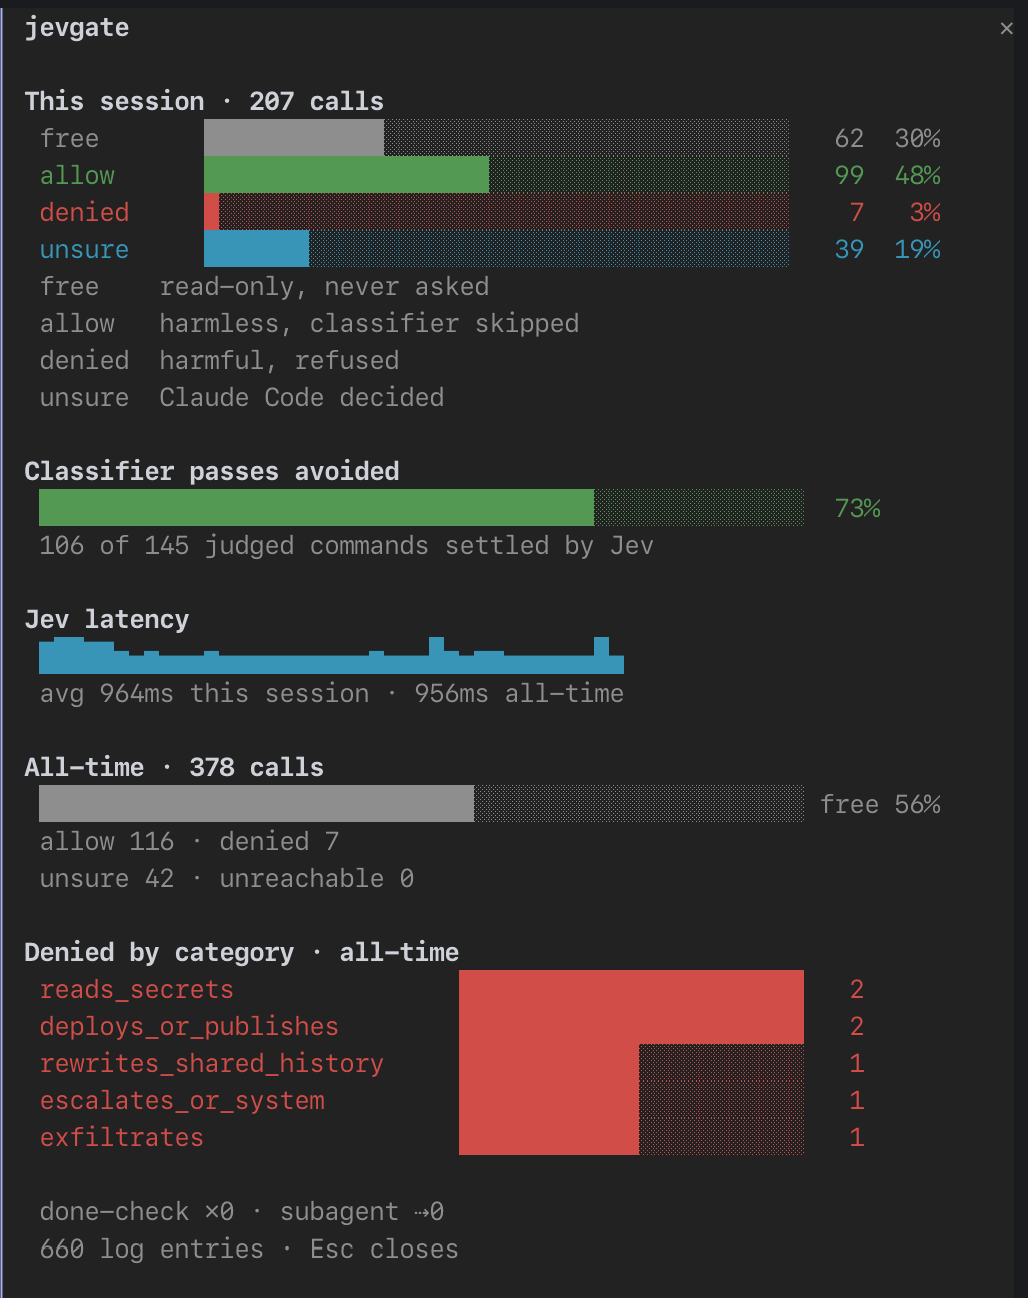
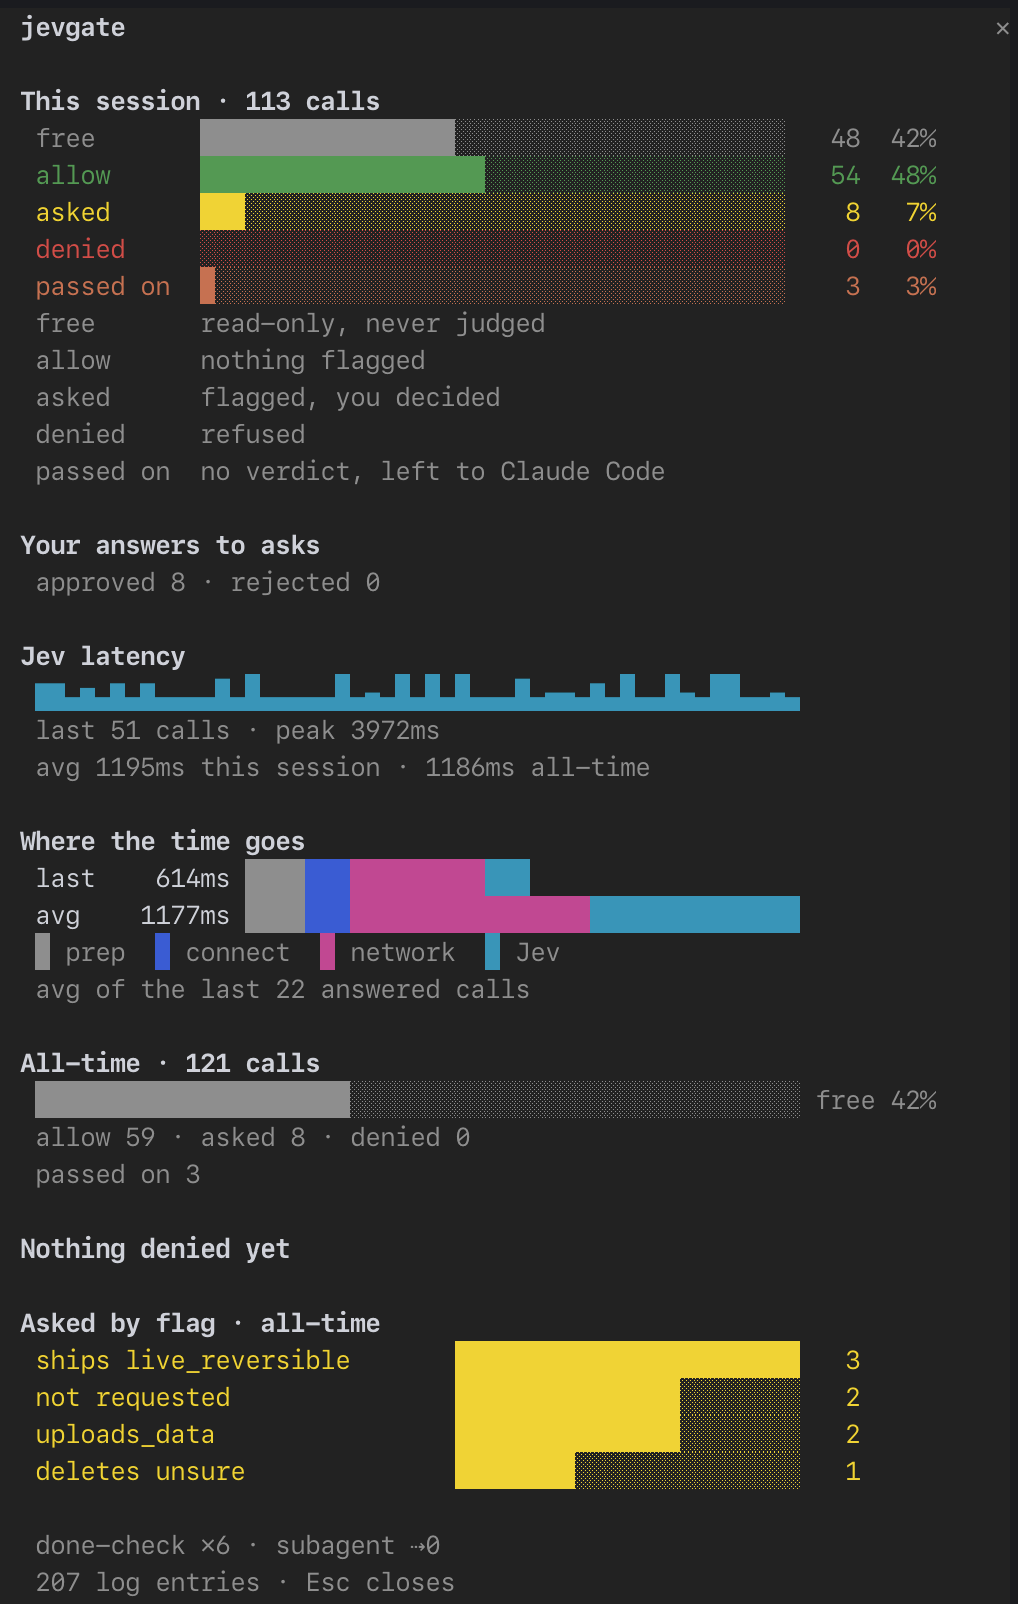
docs: current pane screenshot, gateway blocks pass on

diff --git a/README.md b/README.md
@@ -48,7 +48,7 @@ done-check blocks, subagents refused, compactions).
 
 `/jevgate` opens a panel. It refreshes while open.
 
-<img src="docs/jevgate-pane.png" alt="The /jevgate panel: bars per outcome for this session, classifier passes avoided, Jev latency, all-time totals, denials by category" width="520">
+<img src="docs/jevgate-pane.png" alt="The /jevgate panel: bars per outcome for this session, Jev latency, where the time of a Jev call goes, all-time totals, asks by flag" width="520">
 
 ## What it does
 
@@ -96,7 +96,9 @@ If Jev is unreachable (after one retry on a timeout, rate limit or server
 error): in bypass mode commands outside the read-only set are refused, since
 nothing else would check them. In other modes jevgate steps aside and Claude
 Code behaves as before. A few commands (writing `/etc/hosts`, some SQL) are
-blocked by the gateway in front of Jev every time; those are asked.
+blocked by the gateway in front of Jev every time; those are handled the same
+way, except in bypass mode, where they are asked. The panel counts both as
+passed on.
 
 ## Options
 
@@ -214,8 +216,8 @@ under `compactMinReductionRatio`, the built-in summary runs instead.
 - The file guard asks on every whole-file Write over an existing file outside
   the project. Working on another repo from a different folder means many asks.
 - The gateway in front of Jev blocks a few commands by content (`/etc/hosts`,
-  some SQL); they are asked. To do: ask TypeSafe about it.
-- Whether an ask was approved or rejected is not logged yet.
+  some SQL); they are passed on to Claude Code (asked in bypass mode). To do:
+  ask TypeSafe about it.
 - The done-check skips turns that changed no files, but a turn that did still
   gets judged on the whole working-tree diff, older uncommitted changes
   included. To do: snapshot `git diff` when the turn starts and judge only
